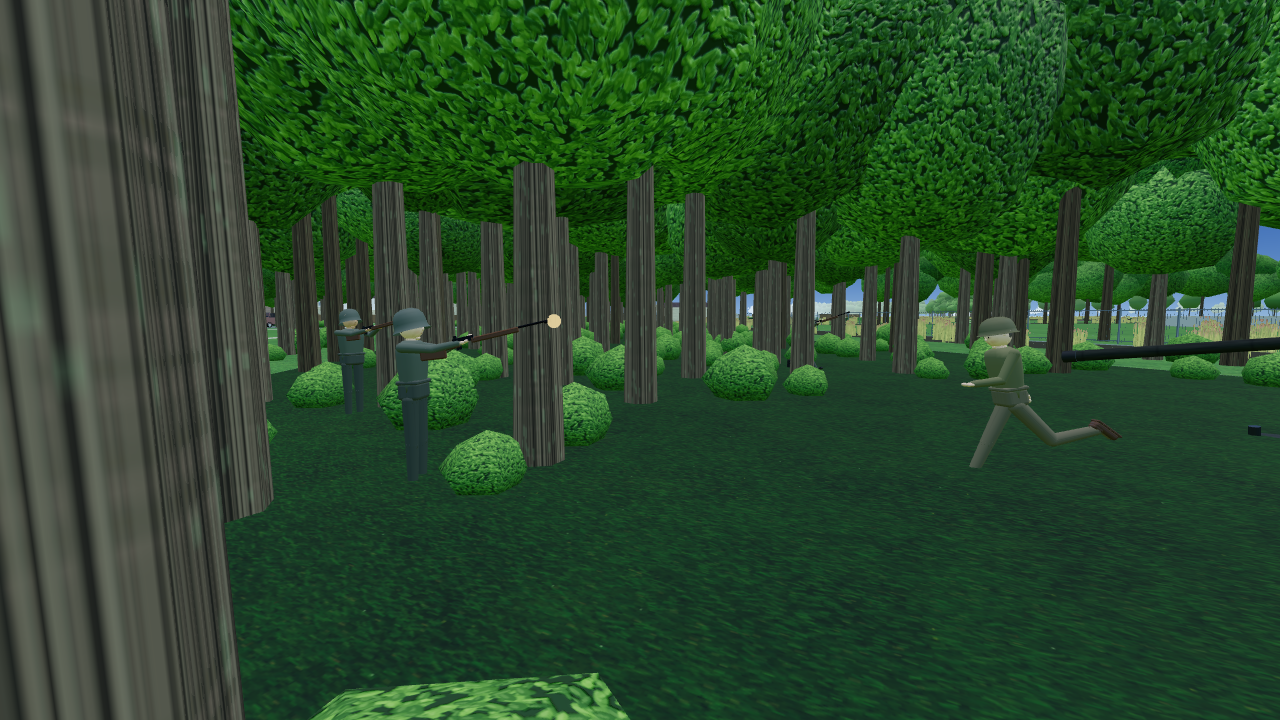
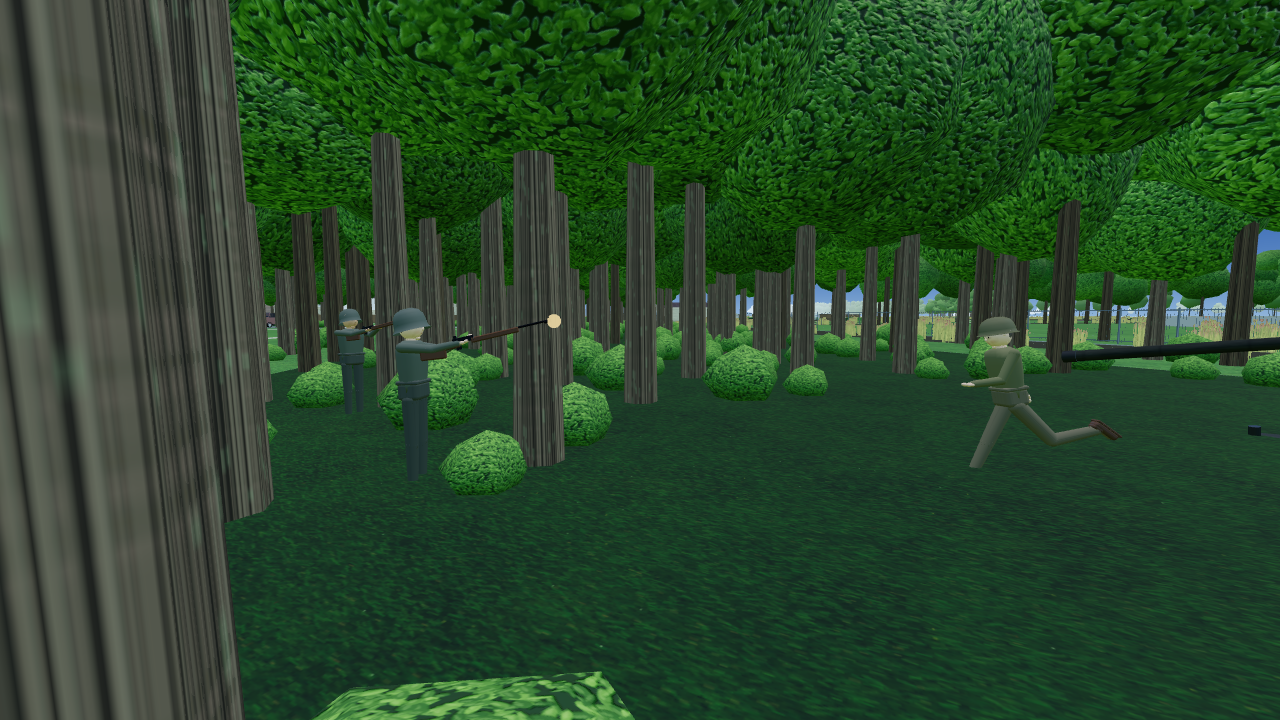
Stap 141: No Mercy 4, de tweede scène — het bunkerdorp: sluipen of vechten (geen herstart), de kaart, het luchtalarm, zes figuranten, de radiopost opblazen, de close-up, applaus en klapbord; keuze € 1.000 of de M1 houden; nomercy2test 73 en nomercytest 57 controles groen
Claude-Session: https://claude.ai/code/session_019E5GRCbU4K5p9fAFQGuqaK

Changed region(s): [[0.1562, 0.0, 1.0, 0.4278], [0.25, 0.9167, 0.5, 1.0]]

diff --git a/js/nomercy.js b/js/nomercy.js
@@ -459,7 +459,7 @@ export const KAMP = {
   staf: { x: 2, z: -7, yaw: Math.PI / 2 },
   closeup: { x: 0, z: 3 },                             // de gele ruit voor de camera
   camera: { x: -3.4, z: 3 },                           // waar de cameraman de close-up draait
-  regisseur: { x: -13, z: 7 },
+  regisseur: { x: -9, z: 6.5 },                       // binnen de open plek: daarbuiten staan de stammen (botsdozen)
   ejSlot: { x: -3.0, z: 4.8 },                         // Erik Jan met het klapbord, naast de camera
   // de schildwachten: A staat achter de zandzakken en kijkt naar het oosten, B loopt aan de oostkant heen en weer
   wachten: [{ a: [8, -0.6], b: [8.4, -0.6] }, { a: [10.6, -5], b: [10.6, 5] }],

diff --git a/js/verhaal.js b/js/verhaal.js
@@ -1712,7 +1712,7 @@ export function initVerhaal(ctx) {
   const nmStaf = vehicles.voegToe({ x: 1e5, z: 1e5, yaw: 0, soort: 'bx', kleur: NOMERCY.stafKleur, driveable: false });
   nmStaf.mesh.visible = false; nmStaf.mesh.position.set(1e5, 0, 1e5); nmStaf.noMercy = true;
   const nmKlapbord = maakKlapbord();
-  nmKlapbord.position.set(0.05, 1.62, -0.46); nmKlapbord.rotation.y = Math.PI;
+  nmKlapbord.position.set(0.05, 1.44, -0.5); nmKlapbord.rotation.y = Math.PI;   // voor de borst, onder het gezicht
   nmEJ.groep.add(nmKlapbord);
   const nmTentDoos = addCollider(NOMERCY.kamp.x, NOMERCY.kamp.z, 2.1, 1.6, 0, 0);
   const nmRadioDoos = addCollider(NOMERCY.kamp.x, NOMERCY.kamp.z, 0.45, 0.6, 0, 0);

diff --git a/CLAUDE.md b/CLAUDE.md
@@ -363,7 +363,7 @@ uit gaat) en naast de voordeur een **oprit** waar je auto blijft staan.
 
 Er is één `npm run <naam>test` en meestal een `<naam>shots` per onderwerp; ze
 staan allemaal in `tools/` en draaien via Playwright op een headless Chromium.
-De laatste die ertoe doen: `npm run postbodetest` (stap 141: de postbode alleen 8–11:30 en bij de speler, minstens drie deuren, stil bij de deur met arm en envelop, de klep, elk beeld buiten de botsdozen en panden en geen stap door een muur, nooit in beeld ontstaan of verdwijnen, raken/aanrijden/schrikken en de volgende ochtend terug, geen nieuwe shader) met `postbodeshots` (`postbode.png`); `npm run nomercy2test` (stap 141: No Mercy 4, het bunkerdorp — de plek gemeten tegen bomen, water, grond en botsdozen, sluipen achter de schildwachten langs, de kaart, het luchtalarm, zes figuranten zonder schade, de radiopost, de close-up waar bewegen niet telt, het klapbord, beide keuzes met opslaan en laden, gezien en gehoord zonder herstart, een eigen M1, de grens vanaf het kamp, opruimen, geen nieuwe shader) met nomercy_kamp, nomercy_radio en nomercy_klapbord in `nomercyshots`; `npm run nomercytest` (stap 140: No Mercy 4 — het EJ-speldje na missie 5, het telefoontje na 30 s en niet tijdens een klus, de bruikleen, de set gemeten tegen bomen en botsdozen, de cameraman < 8 m, de knal, Duitsers die schieten zonder schade en neergaan na hun eigen 1–3 treffers, het bos uit, € 500, de bruikleen terug met en zonder eigen M1, opruimen bij mislukken, neergaan, X en laden, de tussenpoos, opslaan, geen nieuwe shader) met `nomercyshots` (drie foto's); `npm run m1geluidtest` (stap 139: de opnames van de M1 en de stad gemeten, gains, afstand, afkappen; laadt alleen js/audio.js, dus snel); `npm run droneklustest` en `npm run m1test` (stap 132: de drone-klus en de M1 Garand) met `droneklusshots` en `m1shots`; `npm run wensen5test` (stap 131: Martens Vishandel, pizza bezorgen, tennis, zeilbootjes, onweer, tuning met decals, Tinga Nieuws op de tv, aan de knoppen van Radio Tinga) met `wensen5shots` (vier foto's); `npm run wensen4test` (stap 130: missiemuziek 2 en de schuif, Ren Lenny Ren en de zender 100% NL, de muren van de rondweg en de grens op de N7, niet verdwijnen in beeld, paniek bij de inslag, de achtergrond per stad en nacht, de vlag naar missie 15–18, achtergelaten auto's terug, schieten op Bouwman in missie 15, aanval en flank bij de politie) met `wensen4shots` (één foto); `npm run wensen3test` (stap 129: spelen in volledig scherm als blijvende keuze, Kali uit het radiootje van missie 1 en op Radio Tinga, gele ringen onder de schutters, Wiebe, Mark en Johan schieten uit de auto, de Ferrari wendbaarder en harder remmen, meer verkeer, de ambulancebroeders te raken) met `wensen3shots` (één foto); `npm run wensen2test` (stap 128: achtergronden 75 % zachter, NaN geweigerd in een AudioParam, de mouw met een elleboog, rennen zonder schokken, shift-boost in auto en boot, geen oeverwanden in het water, de camera bij een boomstam, de uitleg thuis, Mark praat onderweg in missie 7 met de gele cirkel, de J of M vóór het telefoontje, missie 8 € 2.500, de boot over het water, ambulances en vrachtwagens, vuur van beneden met tracers, zwaailichten bij Bouwman, de loods op afstand) met `wensen2shots` (drie foto's); `npm run wensentest` (stap 127: de geluiden van de gebruiker, de heli met wapen en kogels die niet opraken, Bouwman harder, de handlangers, het zwaardere gevecht, het schudden op de Dúvelsrak en de route naar Radio Tinga, vuurwerk om tien uur, de Ferrari van binnen, je auto bij huis, voetbal met balbezit, de mouw achter de camera, de drone terug in bereik, volledig scherm, opgeslagen spellen, de vloer bij de BP) met `wensenshots` (zeven foto's); `npm run kleinwinsttest` (stap 126: het klokje, slapen tot de ochtend met Z, de minikaart op de drone, wisselend weer — geleidelijk, met de hand meteen, uit te zetten —, kliko's langs de vuilniswagen, twinkelende sterren; punt 9 en 10 staan in `huistest` en `verhaaltest`); `npm run tijdtest` (stap 125: de klok loopt vanaf het begin, 48 minuten per dag, T als schakelaar, de instellingen, een missie overdag en stil, wachten onder de M, laden zonder sprong, de nacht van de race, de vuilniswagen van Súdwest-Fryslân); `npm run dronetest` (stap 124: de drone — kopen, opslag, vliegen, gebouwen, de drie grenzen met OUT OF RANGE en tien tellen, kwijt, accu, E/B, foto, nooit een ster —, vogels in het water, meeuwen bij IJlst, sterren, ochtendmist, knipperlichten, joggers, vuilniswagen, terras, autoschade, remsporen, geen nieuwe shaders) met `droneshots` (negen foto's); `npm run zespuntentest` (stap 123: het mes — altijd, vanzelf bij alles leeg, een steek op 1,6 m raak en op 6 m niet, geen schot te horen —, de GTI, de uitleg bij de eerste ster en de grote kaart, de wapens van de anderen, oversteken in plaats van springen, missie opnieuw vanuit het pauzemenu) met `zespuntenshots` (drie foto's); `npm run naloop3test` (stap 122, missie 16–18 en het uitje nagelopen: laden tijdens de montage en het filmbeeld op het dek, na de montage buiten bij Mark en Johan, neergaan bij de loods en op de brug, het uitje dat niet meer vastloopt, auto's die niet stapelen, te voet op het dek na laden, de worst en de kluis van missie 17, niet opslaan net na een missie); `npm run naloop2test` (stap 121, missie 11–15 nagelopen: missie 12 klaar ook na neergaan in Marks gesprek, de hekken van missie 12 in de opslag en door naar de C4, het konvooi stapelt niet, laden ruimt het dek, de race en het volgen op, "Een paar dagen later" blijft zwart, laden na de finish of na het verliezen, laden midden in de race op de grid, neergaan in een race voor geld, mislukt zonder sterren); `npm run nalooptest` (stap 120, missie 6–10 nagelopen: de BX heel terug bij opnieuw beginnen en na een knal, missie 6 laden in een nieuwe sessie zonder tweede BX, missie 7 zonder muziek bij de M en zonder achtergebleven auto's, missie 8 opnieuw vanaf 'terug' in de sloep met de waterpolitie, opruimen bij laden, het herstelpunt in de opslag, missie 9 gezien/klus/knoppen/toonbank, neergaan sluit een gesprek); `npm run beginmissietest` (stap 119: missie 1 de man die opspringt en terugschiet, missie 2 Mark praat onderweg, missie 4 alarm, Mark bij de boerderij en € 500, missie 5 de dief langzamer te voet en de tuinen in voor een auto, het muziekje van de intro in de heli van missie 18 met fade in en fade out) met `beginmissieshots` (vijf foto's), en `npm run introtest` (sinds stap 119 ook het beeld bij VV Sneek: even lang als de Poiesz ervoor, een kraan, het bord van Radio Spannenburg, de wedstrijd in de film); `npm run opzettest` (de opzet voor een nieuwe speler: de besturing in het menu, Spel laden met datum, een onleesbare opslag, Start spel vraagt eerst, Opslaan in de pauze, een ander tabblad pauzeert, keuzeknoppen voor een aanraakscherm, een mislukte missie laadt niet je opslag, de uitleg bij het eerste checkpoint, geen voorwerpen in de rijbaan, geen 404; stap 118); `npm run opslagtest` (F5 niet in het menu, een gesprek of een filmbeeld; laden midden in een
+De laatste die ertoe doen: `npm run postbodetest` (stap 141: de postbode alleen 8–11:30 en bij de speler, minstens drie deuren, stil bij de deur met arm en envelop, de klep, elk beeld buiten de botsdozen en panden en geen stap door een muur, nooit in beeld ontstaan of verdwijnen, raken/aanrijden/schrikken en de volgende ochtend terug, geen nieuwe shader) met `postbodeshots` (`postbode.png`); `npm run nomercy2test` (stap 141: No Mercy 4, het bunkerdorp — de plek gemeten tegen bomen, water, grond en botsdozen, sluipen achter de schildwachten langs, de kaart, het luchtalarm, zes figuranten zonder schade, de radiopost, de close-up waar bewegen niet telt, het klapbord, beide keuzes met opslaan en laden, gezien en gehoord zonder herstart, een eigen M1, de grens vanaf het kamp, opruimen, geen nieuwe shader) met nomercy_kamp, nomercy_radio en nomercy_klapbord in `nomercyshots`; `npm run nomercytest` (stap 140: No Mercy 4 — het EJ-speldje na missie 5, het telefoontje na 30 s en niet tijdens een klus, de bruikleen, de set gemeten tegen bomen en botsdozen, de cameraman < 8 m, de knal, Duitsers die schieten zonder schade en neergaan na hun eigen 1–3 treffers, het bos uit, sinds stap 141 "nu de tweede take!" en het bunkerdorp in (het einde en een eigen M1 staan in nomercy2test), opruimen bij mislukken, neergaan, X en laden, de tussenpoos, opslaan, geen nieuwe shader) met `nomercyshots` (drie foto's); `npm run m1geluidtest` (stap 139: de opnames van de M1 en de stad gemeten, gains, afstand, afkappen; laadt alleen js/audio.js, dus snel); `npm run droneklustest` en `npm run m1test` (stap 132: de drone-klus en de M1 Garand) met `droneklusshots` en `m1shots`; `npm run wensen5test` (stap 131: Martens Vishandel, pizza bezorgen, tennis, zeilbootjes, onweer, tuning met decals, Tinga Nieuws op de tv, aan de knoppen van Radio Tinga) met `wensen5shots` (vier foto's); `npm run wensen4test` (stap 130: missiemuziek 2 en de schuif, Ren Lenny Ren en de zender 100% NL, de muren van de rondweg en de grens op de N7, niet verdwijnen in beeld, paniek bij de inslag, de achtergrond per stad en nacht, de vlag naar missie 15–18, achtergelaten auto's terug, schieten op Bouwman in missie 15, aanval en flank bij de politie) met `wensen4shots` (één foto); `npm run wensen3test` (stap 129: spelen in volledig scherm als blijvende keuze, Kali uit het radiootje van missie 1 en op Radio Tinga, gele ringen onder de schutters, Wiebe, Mark en Johan schieten uit de auto, de Ferrari wendbaarder en harder remmen, meer verkeer, de ambulancebroeders te raken) met `wensen3shots` (één foto); `npm run wensen2test` (stap 128: achtergronden 75 % zachter, NaN geweigerd in een AudioParam, de mouw met een elleboog, rennen zonder schokken, shift-boost in auto en boot, geen oeverwanden in het water, de camera bij een boomstam, de uitleg thuis, Mark praat onderweg in missie 7 met de gele cirkel, de J of M vóór het telefoontje, missie 8 € 2.500, de boot over het water, ambulances en vrachtwagens, vuur van beneden met tracers, zwaailichten bij Bouwman, de loods op afstand) met `wensen2shots` (drie foto's); `npm run wensentest` (stap 127: de geluiden van de gebruiker, de heli met wapen en kogels die niet opraken, Bouwman harder, de handlangers, het zwaardere gevecht, het schudden op de Dúvelsrak en de route naar Radio Tinga, vuurwerk om tien uur, de Ferrari van binnen, je auto bij huis, voetbal met balbezit, de mouw achter de camera, de drone terug in bereik, volledig scherm, opgeslagen spellen, de vloer bij de BP) met `wensenshots` (zeven foto's); `npm run kleinwinsttest` (stap 126: het klokje, slapen tot de ochtend met Z, de minikaart op de drone, wisselend weer — geleidelijk, met de hand meteen, uit te zetten —, kliko's langs de vuilniswagen, twinkelende sterren; punt 9 en 10 staan in `huistest` en `verhaaltest`); `npm run tijdtest` (stap 125: de klok loopt vanaf het begin, 48 minuten per dag, T als schakelaar, de instellingen, een missie overdag en stil, wachten onder de M, laden zonder sprong, de nacht van de race, de vuilniswagen van Súdwest-Fryslân); `npm run dronetest` (stap 124: de drone — kopen, opslag, vliegen, gebouwen, de drie grenzen met OUT OF RANGE en tien tellen, kwijt, accu, E/B, foto, nooit een ster —, vogels in het water, meeuwen bij IJlst, sterren, ochtendmist, knipperlichten, joggers, vuilniswagen, terras, autoschade, remsporen, geen nieuwe shaders) met `droneshots` (negen foto's); `npm run zespuntentest` (stap 123: het mes — altijd, vanzelf bij alles leeg, een steek op 1,6 m raak en op 6 m niet, geen schot te horen —, de GTI, de uitleg bij de eerste ster en de grote kaart, de wapens van de anderen, oversteken in plaats van springen, missie opnieuw vanuit het pauzemenu) met `zespuntenshots` (drie foto's); `npm run naloop3test` (stap 122, missie 16–18 en het uitje nagelopen: laden tijdens de montage en het filmbeeld op het dek, na de montage buiten bij Mark en Johan, neergaan bij de loods en op de brug, het uitje dat niet meer vastloopt, auto's die niet stapelen, te voet op het dek na laden, de worst en de kluis van missie 17, niet opslaan net na een missie); `npm run naloop2test` (stap 121, missie 11–15 nagelopen: missie 12 klaar ook na neergaan in Marks gesprek, de hekken van missie 12 in de opslag en door naar de C4, het konvooi stapelt niet, laden ruimt het dek, de race en het volgen op, "Een paar dagen later" blijft zwart, laden na de finish of na het verliezen, laden midden in de race op de grid, neergaan in een race voor geld, mislukt zonder sterren); `npm run nalooptest` (stap 120, missie 6–10 nagelopen: de BX heel terug bij opnieuw beginnen en na een knal, missie 6 laden in een nieuwe sessie zonder tweede BX, missie 7 zonder muziek bij de M en zonder achtergebleven auto's, missie 8 opnieuw vanaf 'terug' in de sloep met de waterpolitie, opruimen bij laden, het herstelpunt in de opslag, missie 9 gezien/klus/knoppen/toonbank, neergaan sluit een gesprek); `npm run beginmissietest` (stap 119: missie 1 de man die opspringt en terugschiet, missie 2 Mark praat onderweg, missie 4 alarm, Mark bij de boerderij en € 500, missie 5 de dief langzamer te voet en de tuinen in voor een auto, het muziekje van de intro in de heli van missie 18 met fade in en fade out) met `beginmissieshots` (vijf foto's), en `npm run introtest` (sinds stap 119 ook het beeld bij VV Sneek: even lang als de Poiesz ervoor, een kraan, het bord van Radio Spannenburg, de wedstrijd in de film); `npm run opzettest` (de opzet voor een nieuwe speler: de besturing in het menu, Spel laden met datum, een onleesbare opslag, Start spel vraagt eerst, Opslaan in de pauze, een ander tabblad pauzeert, keuzeknoppen voor een aanraakscherm, een mislukte missie laadt niet je opslag, de uitleg bij het eerste checkpoint, geen voorwerpen in de rijbaan, geen 404; stap 118); `npm run opslagtest` (F5 niet in het menu, een gesprek of een filmbeeld; laden midden in een
 gesprek per missie, doorschuiven na missie 1–3, Johan na missie 4, missie 6, 8 en 9 midden, het geld van missie 7, checkpoints
 bij het begin van missie 2–6 en niet in een gesprek, een klus vóór missie 6, Doorgaan, shift + cijfer, blur; stap 117); `npm run ramentest` (de ramen 's avonds van dichtbij, oud tegen nieuw op dezelfde gevel: evenveel licht,
 minder harde sprongen, een kortere rand; maakt ramen_oud.png en ramen_nieuw.png; stap 116); `npm run uitjetest` (na het einde de M bij Molenkrite 15: de keuze, de wedstrijd op het

diff --git a/docs/METHODIEK.md b/docs/METHODIEK.md
@@ -8431,10 +8431,15 @@ tussen de scènes, tijdens het applaus en de keuze geen grens en geen X (`NM_VRI
 bos zijn wél botsdozen in `colliders` (0,3–0,45 m breed, 3 m hoog), anders dan het blok van stap 140 zegt. De proef
 loopt nu een route over een rooster van 1 m, elke stap nagemeten met `resolveCollisions` (`__pad`), en wordt niet gezien. (2) Een tweede bijmissie-run houdt `nm.m1` van een vorige: de proef met een eigen M1 keek daar
 ten onrechte naar. (3) Schildwacht B liep eerst tot 13,6 m van het midden, tussen de stammen en over de zandzakken;
-nu 10,6 m ten oosten, van −5 tot 5.
+nu 10,6 m ten oosten, van −5 tot 5. (4) Erik Jan stond op zijn regieplek 14,8 m van het midden, tussen de stammen, en
+liep bij de close-up vast (9,1 m van de camera in de foto): nu (−9, 6,5), en de proef kijkt of elke plek en elke post
+binnen de open plek ligt (verst 11,7 m) en of hij bij de camera aankomt (0,3 m). (5) De eerste kampfoto stond met de
+camera 14,9 m van het midden achter de stammen; het klapbord hing voor zijn gezicht (nu voor de borst).
 
-*Proef*: `npm run nomercy2test`: NM2_UITKOMST. `npm run nomercytest` stopt nu bij de tweede take (stap 7) en het stuk
-met een eigen M1 staat in nomercy2test. Ook: OVERGANG_UITKOMST. *Foto's*: `npm run nomercyshots` erbij: nomercy_kamp.png,
+*Proef*: `npm run nomercy2test`: 73 controles, alles goed (sluipen over 23 punten van een looproute zonder alarm, de
+cameraman hoogstens 6,5 m achter je, 21 schoten van de figuranten zonder schade, de balk 48 % na 1,45 s, 228 patronen
+na opslaan en laden, 171 → 171 programma's). `npm run nomercytest` (57, alles goed) stopt nu bij de tweede take (stap 7);
+het stuk met een eigen M1 staat in nomercy2test. Ook groen: `overgangtest` (19), `tempotest` (21) en `klusjestest` (45). *Foto's*: `npm run nomercyshots` erbij: nomercy_kamp.png,
 nomercy_radio.png, nomercy_klapbord.png.
 
 **De postbode (stap 141, 12 okt).**
